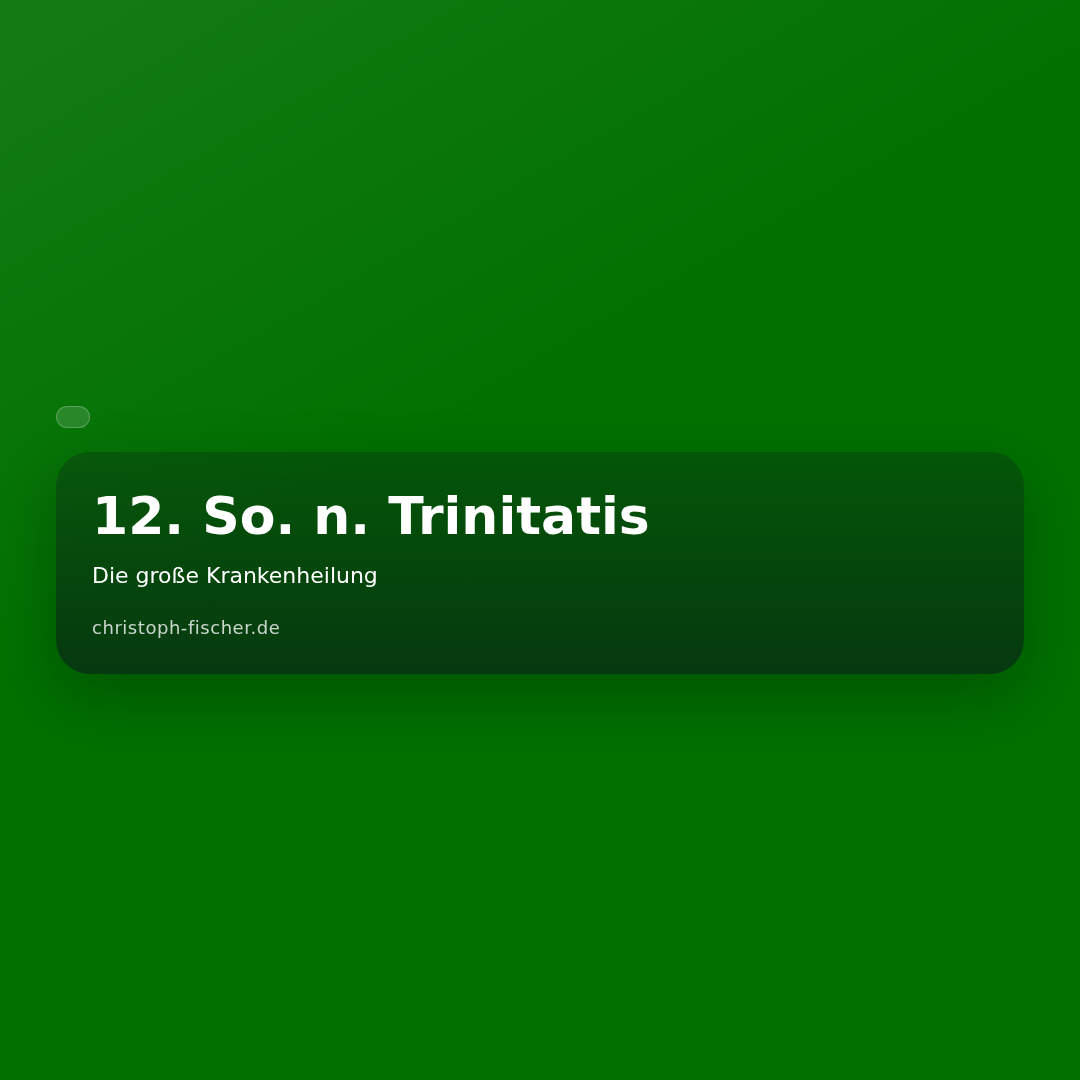
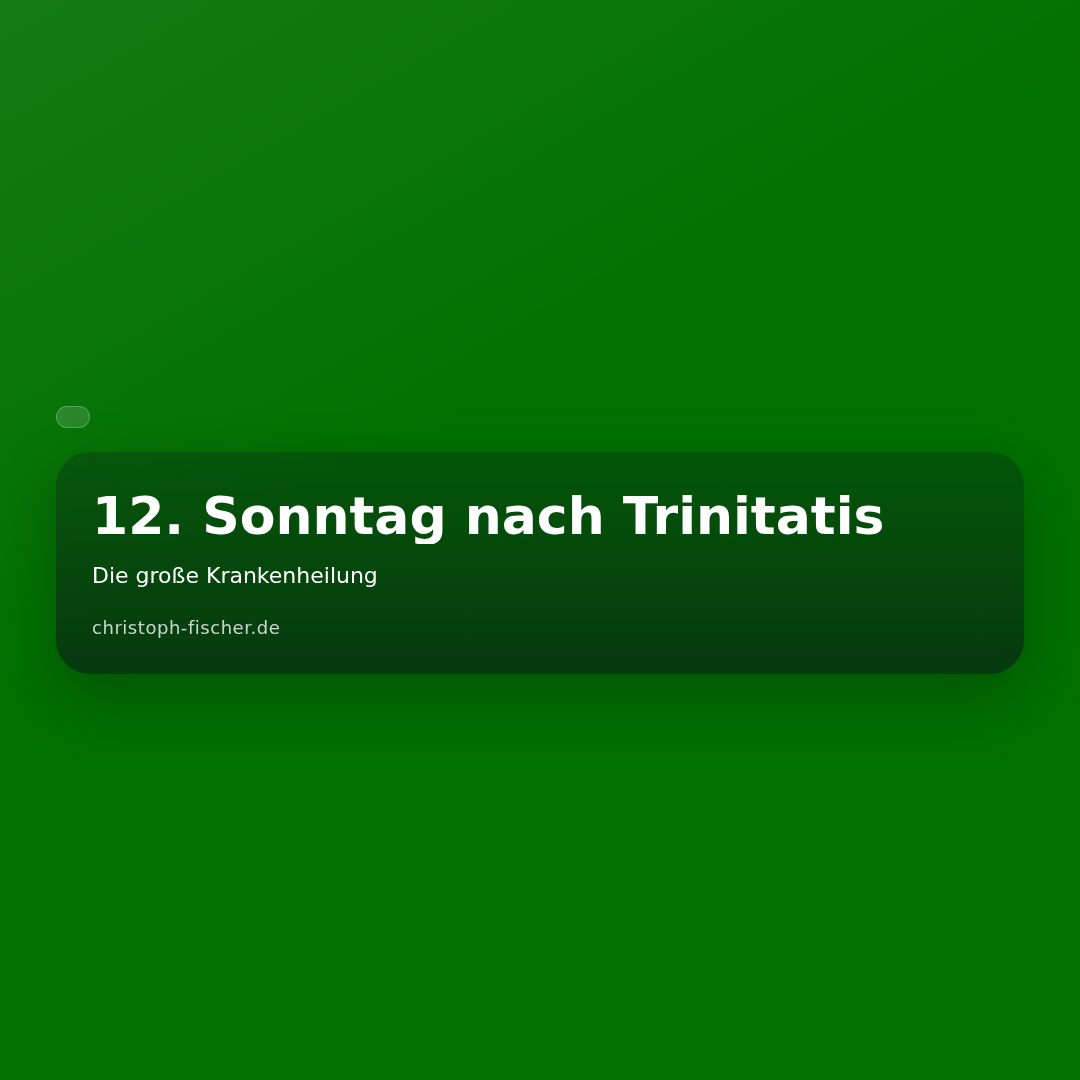
Update content: GET /files/2026-08-16/kirchenjahr-2026-08-16-11tr/render-square-01.png

Changed region(s): [[0.2444, 0.4583, 0.825, 0.5194]]

diff --git a/2026-08-23/kirchenjahr-2026-08-23-12tr/render-instagram-story-01.html b/2026-08-23/kirchenjahr-2026-08-23-12tr/render-instagram-story-01.html
@@ -125,10 +125,21 @@
 
       .template-kirchenjahr .sender-mark {
         position: absolute;
+        left: 56px;
         right: 56px;
-        bottom: 42px;
+        bottom: 36px;
         margin: 0;
         color: var(--text-primary);
+        text-align: center;
+        font-size: 26px;
+      }
+
+      .template-kirchenjahr .title {
+        font-size: 68px;
+      }
+
+      .format-story .template-kirchenjahr .title {
+        font-size: 82px;
       }
 
       .template-kirchenjahr .title-note {
@@ -139,7 +150,7 @@
       }
 
       .format-story .template-kirchenjahr .title-note {
-        font-size: 42px;
+        font-size: 44px;
       }
 
       .panel-meta {
@@ -345,7 +356,7 @@
           
         </div>
         <section class="panel kirchenjahr-panel">
-  <h1 class="title" data-overflow-id="title">12. So. n. Trinitatis</h1>
+  <h1 class="title" data-overflow-id="title">12. Sonntag nach Trinitatis</h1>
   <p class="title-note" data-overflow-id="title-note">Die große Krankenheilung</p>
   <p class="sender-mark">christoph-fischer.de</p>
 </section>

diff --git a/2026-08-23/kirchenjahr-2026-08-23-12tr/render-square-01.html b/2026-08-23/kirchenjahr-2026-08-23-12tr/render-square-01.html
@@ -125,10 +125,21 @@
 
       .template-kirchenjahr .sender-mark {
         position: absolute;
+        left: 56px;
         right: 56px;
-        bottom: 42px;
+        bottom: 36px;
         margin: 0;
         color: var(--text-primary);
+        text-align: center;
+        font-size: 26px;
+      }
+
+      .template-kirchenjahr .title {
+        font-size: 68px;
+      }
+
+      .format-story .template-kirchenjahr .title {
+        font-size: 82px;
       }
 
       .template-kirchenjahr .title-note {
@@ -139,7 +150,7 @@
       }
 
       .format-story .template-kirchenjahr .title-note {
-        font-size: 42px;
+        font-size: 44px;
       }
 
       .panel-meta {
@@ -345,7 +356,7 @@
           
         </div>
         <section class="panel kirchenjahr-panel">
-  <h1 class="title" data-overflow-id="title">12. So. n. Trinitatis</h1>
+  <h1 class="title" data-overflow-id="title">12. Sonntag nach Trinitatis</h1>
   <p class="title-note" data-overflow-id="title-note">Die große Krankenheilung</p>
   <p class="sender-mark">christoph-fischer.de</p>
 </section>

diff --git a/2026-08-30/kirchenjahr-2026-08-30-13tr/render-instagram-story-01.html b/2026-08-30/kirchenjahr-2026-08-30-13tr/render-instagram-story-01.html
@@ -125,10 +125,21 @@
 
       .template-kirchenjahr .sender-mark {
         position: absolute;
+        left: 56px;
         right: 56px;
-        bottom: 42px;
+        bottom: 36px;
         margin: 0;
         color: var(--text-primary);
+        text-align: center;
+        font-size: 26px;
+      }
+
+      .template-kirchenjahr .title {
+        font-size: 68px;
+      }
+
+      .format-story .template-kirchenjahr .title {
+        font-size: 82px;
       }
 
       .template-kirchenjahr .title-note {
@@ -139,7 +150,7 @@
       }
 
       .format-story .template-kirchenjahr .title-note {
-        font-size: 42px;
+        font-size: 44px;
       }
 
       .panel-meta {
@@ -345,7 +356,7 @@
           
         </div>
         <section class="panel kirchenjahr-panel">
-  <h1 class="title" data-overflow-id="title">13. So. n. Trinitatis</h1>
+  <h1 class="title" data-overflow-id="title">13. Sonntag nach Trinitatis</h1>
   <p class="title-note" data-overflow-id="title-note">Der barmherzige Samariter</p>
   <p class="sender-mark">christoph-fischer.de</p>
 </section>

diff --git a/2026-08-30/kirchenjahr-2026-08-30-13tr/render-square-01.html b/2026-08-30/kirchenjahr-2026-08-30-13tr/render-square-01.html
@@ -125,10 +125,21 @@
 
       .template-kirchenjahr .sender-mark {
         position: absolute;
+        left: 56px;
         right: 56px;
-        bottom: 42px;
+        bottom: 36px;
         margin: 0;
         color: var(--text-primary);
+        text-align: center;
+        font-size: 26px;
+      }
+
+      .template-kirchenjahr .title {
+        font-size: 68px;
+      }
+
+      .format-story .template-kirchenjahr .title {
+        font-size: 82px;
       }
 
       .template-kirchenjahr .title-note {
@@ -139,7 +150,7 @@
       }
 
       .format-story .template-kirchenjahr .title-note {
-        font-size: 42px;
+        font-size: 44px;
       }
 
       .panel-meta {
@@ -345,7 +356,7 @@
           
         </div>
         <section class="panel kirchenjahr-panel">
-  <h1 class="title" data-overflow-id="title">13. So. n. Trinitatis</h1>
+  <h1 class="title" data-overflow-id="title">13. Sonntag nach Trinitatis</h1>
   <p class="title-note" data-overflow-id="title-note">Der barmherzige Samariter</p>
   <p class="sender-mark">christoph-fischer.de</p>
 </section>

diff --git a/2026-08-16/kirchenjahr-2026-08-16-11tr/render-instagram-story-01.html b/2026-08-16/kirchenjahr-2026-08-16-11tr/render-instagram-story-01.html
@@ -125,10 +125,21 @@
 
       .template-kirchenjahr .sender-mark {
         position: absolute;
+        left: 56px;
         right: 56px;
-        bottom: 42px;
+        bottom: 36px;
         margin: 0;
         color: var(--text-primary);
+        text-align: center;
+        font-size: 26px;
+      }
+
+      .template-kirchenjahr .title {
+        font-size: 68px;
+      }
+
+      .format-story .template-kirchenjahr .title {
+        font-size: 82px;
       }
 
       .template-kirchenjahr .title-note {
@@ -139,7 +150,7 @@
       }
 
       .format-story .template-kirchenjahr .title-note {
-        font-size: 42px;
+        font-size: 44px;
       }
 
       .panel-meta {
@@ -345,7 +356,7 @@
           
         </div>
         <section class="panel kirchenjahr-panel">
-  <h1 class="title" data-overflow-id="title">11. So. n. Trinitatis</h1>
+  <h1 class="title" data-overflow-id="title">11. Sonntag nach Trinitatis</h1>
   <p class="title-note" data-overflow-id="title-note">Pharisäer und Zöllner</p>
   <p class="sender-mark">christoph-fischer.de</p>
 </section>

diff --git a/2026-08-16/kirchenjahr-2026-08-16-11tr/render-square-01.html b/2026-08-16/kirchenjahr-2026-08-16-11tr/render-square-01.html
@@ -125,10 +125,21 @@
 
       .template-kirchenjahr .sender-mark {
         position: absolute;
+        left: 56px;
         right: 56px;
-        bottom: 42px;
+        bottom: 36px;
         margin: 0;
         color: var(--text-primary);
+        text-align: center;
+        font-size: 26px;
+      }
+
+      .template-kirchenjahr .title {
+        font-size: 68px;
+      }
+
+      .format-story .template-kirchenjahr .title {
+        font-size: 82px;
       }
 
       .template-kirchenjahr .title-note {
@@ -139,7 +150,7 @@
       }
 
       .format-story .template-kirchenjahr .title-note {
-        font-size: 42px;
+        font-size: 44px;
       }
 
       .panel-meta {
@@ -345,7 +356,7 @@
           
         </div>
         <section class="panel kirchenjahr-panel">
-  <h1 class="title" data-overflow-id="title">11. So. n. Trinitatis</h1>
+  <h1 class="title" data-overflow-id="title">11. Sonntag nach Trinitatis</h1>
   <p class="title-note" data-overflow-id="title-note">Pharisäer und Zöllner</p>
   <p class="sender-mark">christoph-fischer.de</p>
 </section>

diff --git a/2026-08-24/kirchenjahr-2026-08-24-bart/render-instagram-story-01.html b/2026-08-24/kirchenjahr-2026-08-24-bart/render-instagram-story-01.html
@@ -125,10 +125,21 @@
 
       .template-kirchenjahr .sender-mark {
         position: absolute;
+        left: 56px;
         right: 56px;
-        bottom: 42px;
+        bottom: 36px;
         margin: 0;
         color: var(--text-primary);
+        text-align: center;
+        font-size: 26px;
+      }
+
+      .template-kirchenjahr .title {
+        font-size: 68px;
+      }
+
+      .format-story .template-kirchenjahr .title {
+        font-size: 82px;
       }
 
       .template-kirchenjahr .title-note {
@@ -139,7 +150,7 @@
       }
 
       .format-story .template-kirchenjahr .title-note {
-        font-size: 42px;
+        font-size: 44px;
       }
 
       .panel-meta {

diff --git a/2026-08-24/kirchenjahr-2026-08-24-bart/render-square-01.html b/2026-08-24/kirchenjahr-2026-08-24-bart/render-square-01.html
@@ -125,10 +125,21 @@
 
       .template-kirchenjahr .sender-mark {
         position: absolute;
+        left: 56px;
         right: 56px;
-        bottom: 42px;
+        bottom: 36px;
         margin: 0;
         color: var(--text-primary);
+        text-align: center;
+        font-size: 26px;
+      }
+
+      .template-kirchenjahr .title {
+        font-size: 68px;
+      }
+
+      .format-story .template-kirchenjahr .title {
+        font-size: 82px;
       }
 
       .template-kirchenjahr .title-note {
@@ -139,7 +150,7 @@
       }
 
       .format-story .template-kirchenjahr .title-note {
-        font-size: 42px;
+        font-size: 44px;
       }
 
       .panel-meta {

diff --git a/2026-08-29/kirchenjahr-2026-08-29-mata/render-instagram-story-01.html b/2026-08-29/kirchenjahr-2026-08-29-mata/render-instagram-story-01.html
@@ -125,10 +125,21 @@
 
       .template-kirchenjahr .sender-mark {
         position: absolute;
+        left: 56px;
         right: 56px;
-        bottom: 42px;
+        bottom: 36px;
         margin: 0;
         color: var(--text-primary);
+        text-align: center;
+        font-size: 26px;
+      }
+
+      .template-kirchenjahr .title {
+        font-size: 68px;
+      }
+
+      .format-story .template-kirchenjahr .title {
+        font-size: 82px;
       }
 
       .template-kirchenjahr .title-note {
@@ -139,7 +150,7 @@
       }
 
       .format-story .template-kirchenjahr .title-note {
-        font-size: 42px;
+        font-size: 44px;
       }
 
       .panel-meta {

diff --git a/2026-08-29/kirchenjahr-2026-08-29-mata/render-square-01.html b/2026-08-29/kirchenjahr-2026-08-29-mata/render-square-01.html
@@ -125,10 +125,21 @@
 
       .template-kirchenjahr .sender-mark {
         position: absolute;
+        left: 56px;
         right: 56px;
-        bottom: 42px;
+        bottom: 36px;
         margin: 0;
         color: var(--text-primary);
+        text-align: center;
+        font-size: 26px;
+      }
+
+      .template-kirchenjahr .title {
+        font-size: 68px;
+      }
+
+      .format-story .template-kirchenjahr .title {
+        font-size: 82px;
       }
 
       .template-kirchenjahr .title-note {
@@ -139,7 +150,7 @@
       }
 
       .format-story .template-kirchenjahr .title-note {
-        font-size: 42px;
+        font-size: 44px;
       }
 
       .panel-meta {
